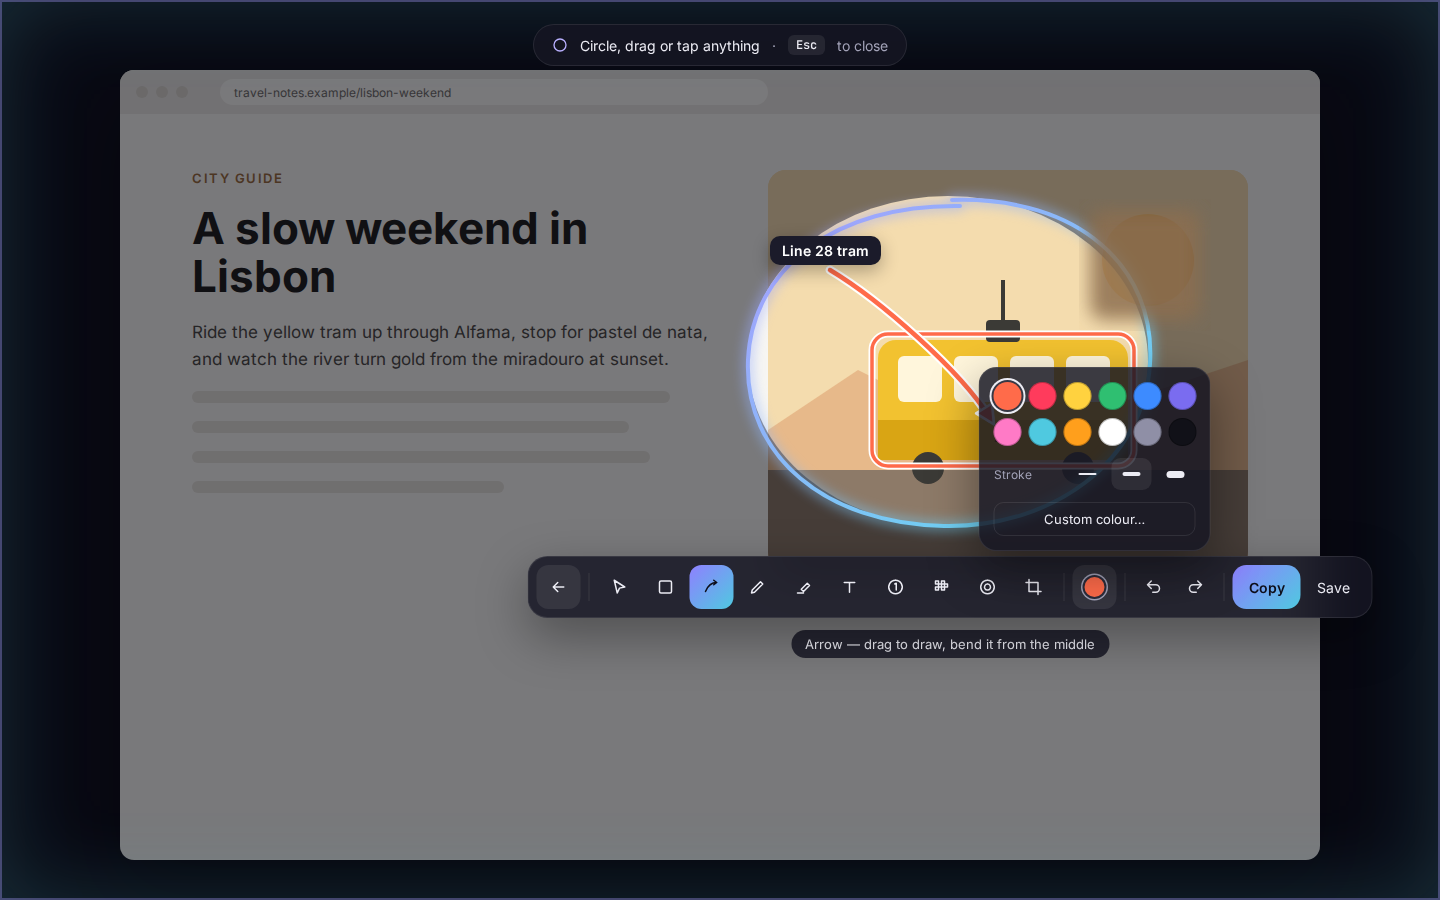
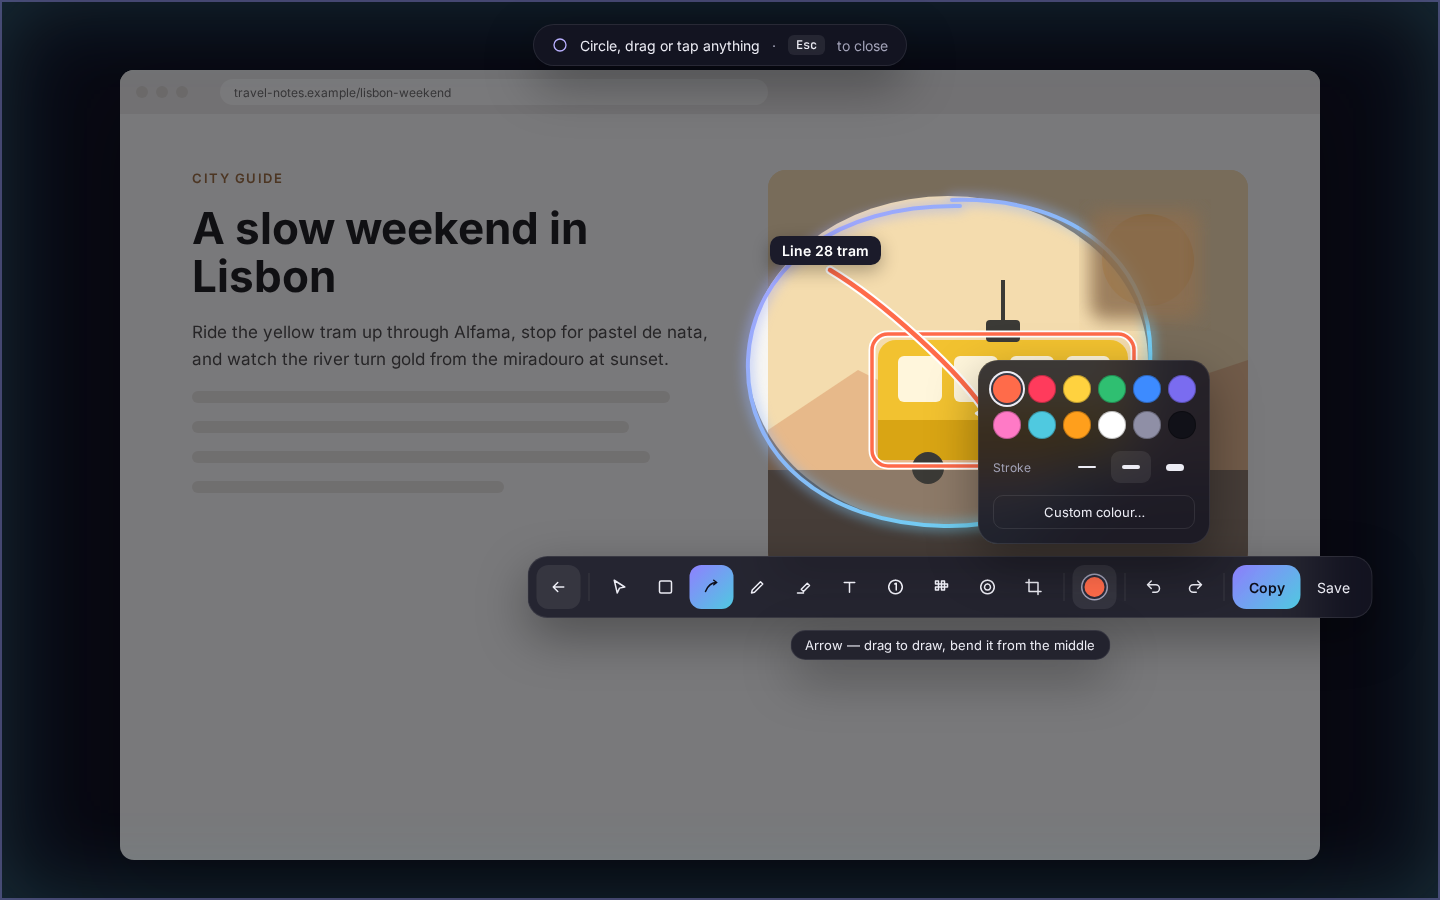
CI waits for the Rust crate; shared glass surface for all widgets
CI steps skip until Cargo.toml exists instead of failing. The colour picker
now shares the toolbar's surface style; shared UI components recorded.

diff --git a/AGENTS.md b/AGENTS.md
@@ -100,6 +100,10 @@ production systems.
   shortcut field is the same width with one keycap per key). No crowded
   rows of options: group them behind one control (e.g. one colour button
   opening a picker instead of a row of swatches).
+- Shared UI (owner, 2026-10-23): every widget and popup uses the same shared
+  components (Surface, Pill, IconButton, TextButton, KeyCap, Segmented, …;
+  list in DESIGN.md) styled only from theme.rs — same background, blur,
+  border, radius and shadow everywhere.
 - Themes (owner, 2026-10-23): Light, Dark and System, from one token set.
 - Workflow (owner, 2026-10-23): planning first; execution starts only after
   the owner reviews the plan and adds rules.
